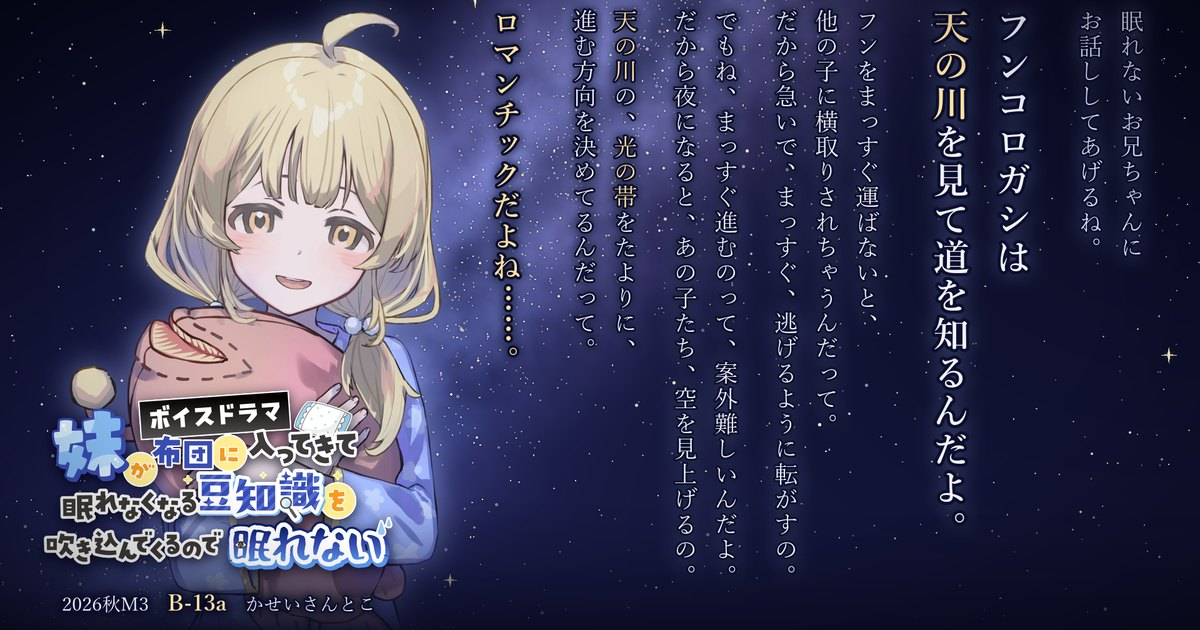
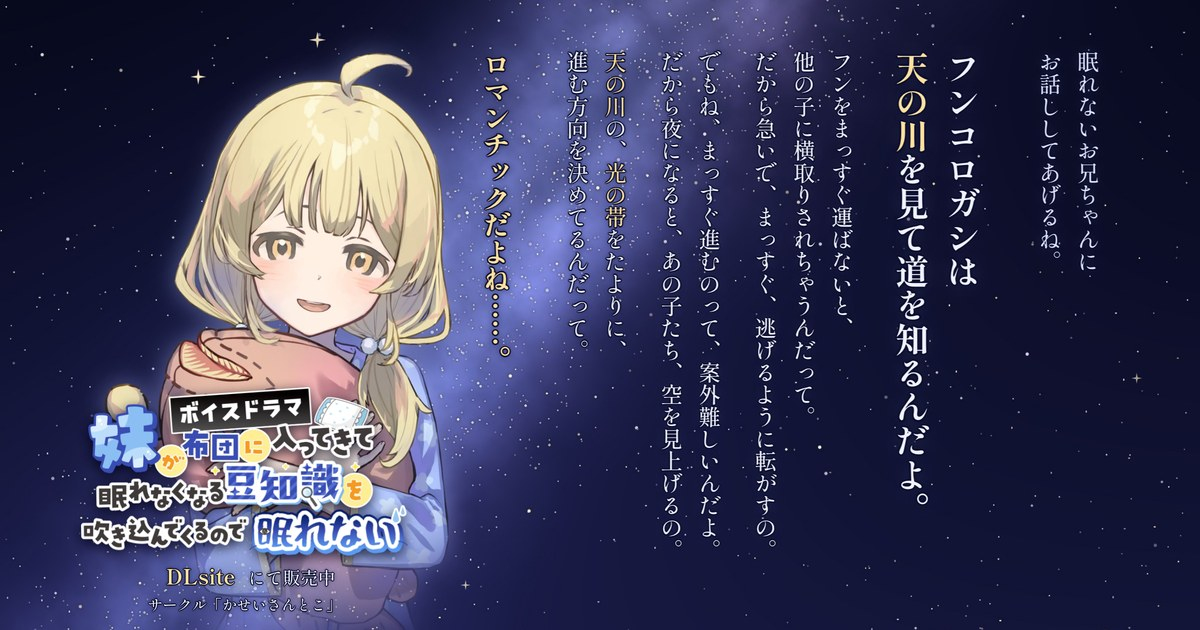
imouto-dlsite-release: OGP 画像の M3 表記を「DLsite にて販売中」に作り直す
OGP 画像の左下に 2026秋M3 の配置が入ったままで、SNS で共有すると終わったイベントの告知に見えるため。
ページの演出の最終状態（?p=1）を 1200x630 で撮り直し、顔は元の OGP と同じ sister_1 に固定した。
X などが古い画像をキャッシュし続けないよう、og:image の URL に ?v=2 を付ける。

diff --git a/imouto-mamechishiki/index.html b/imouto-mamechishiki/index.html
@@ -11,7 +11,7 @@
 <meta property="og:title" content="ボイスドラマ「妹が布団に入ってきて眠れなくなる豆知識を吹き込んでくるので眠れない」">
 <meta property="og:description" content="眠れない夜。あなたの部屋に、妹がやってくる。布団に入ってきた妹が語る、眠れなくなる豆知識――。DLsite にて販売中。">
 <meta property="og:url" content="https://kasei-san.com/imouto-mamechishiki/">
-<meta property="og:image" content="https://kasei-san.com/imouto-mamechishiki/img/ogp.jpg">
+<meta property="og:image" content="https://kasei-san.com/imouto-mamechishiki/img/ogp.jpg?v=2">
 <meta name="twitter:card" content="summary_large_image">
 <meta name="twitter:site" content="@kasei_san">
 <link rel="preconnect" href="https://fonts.googleapis.com">
